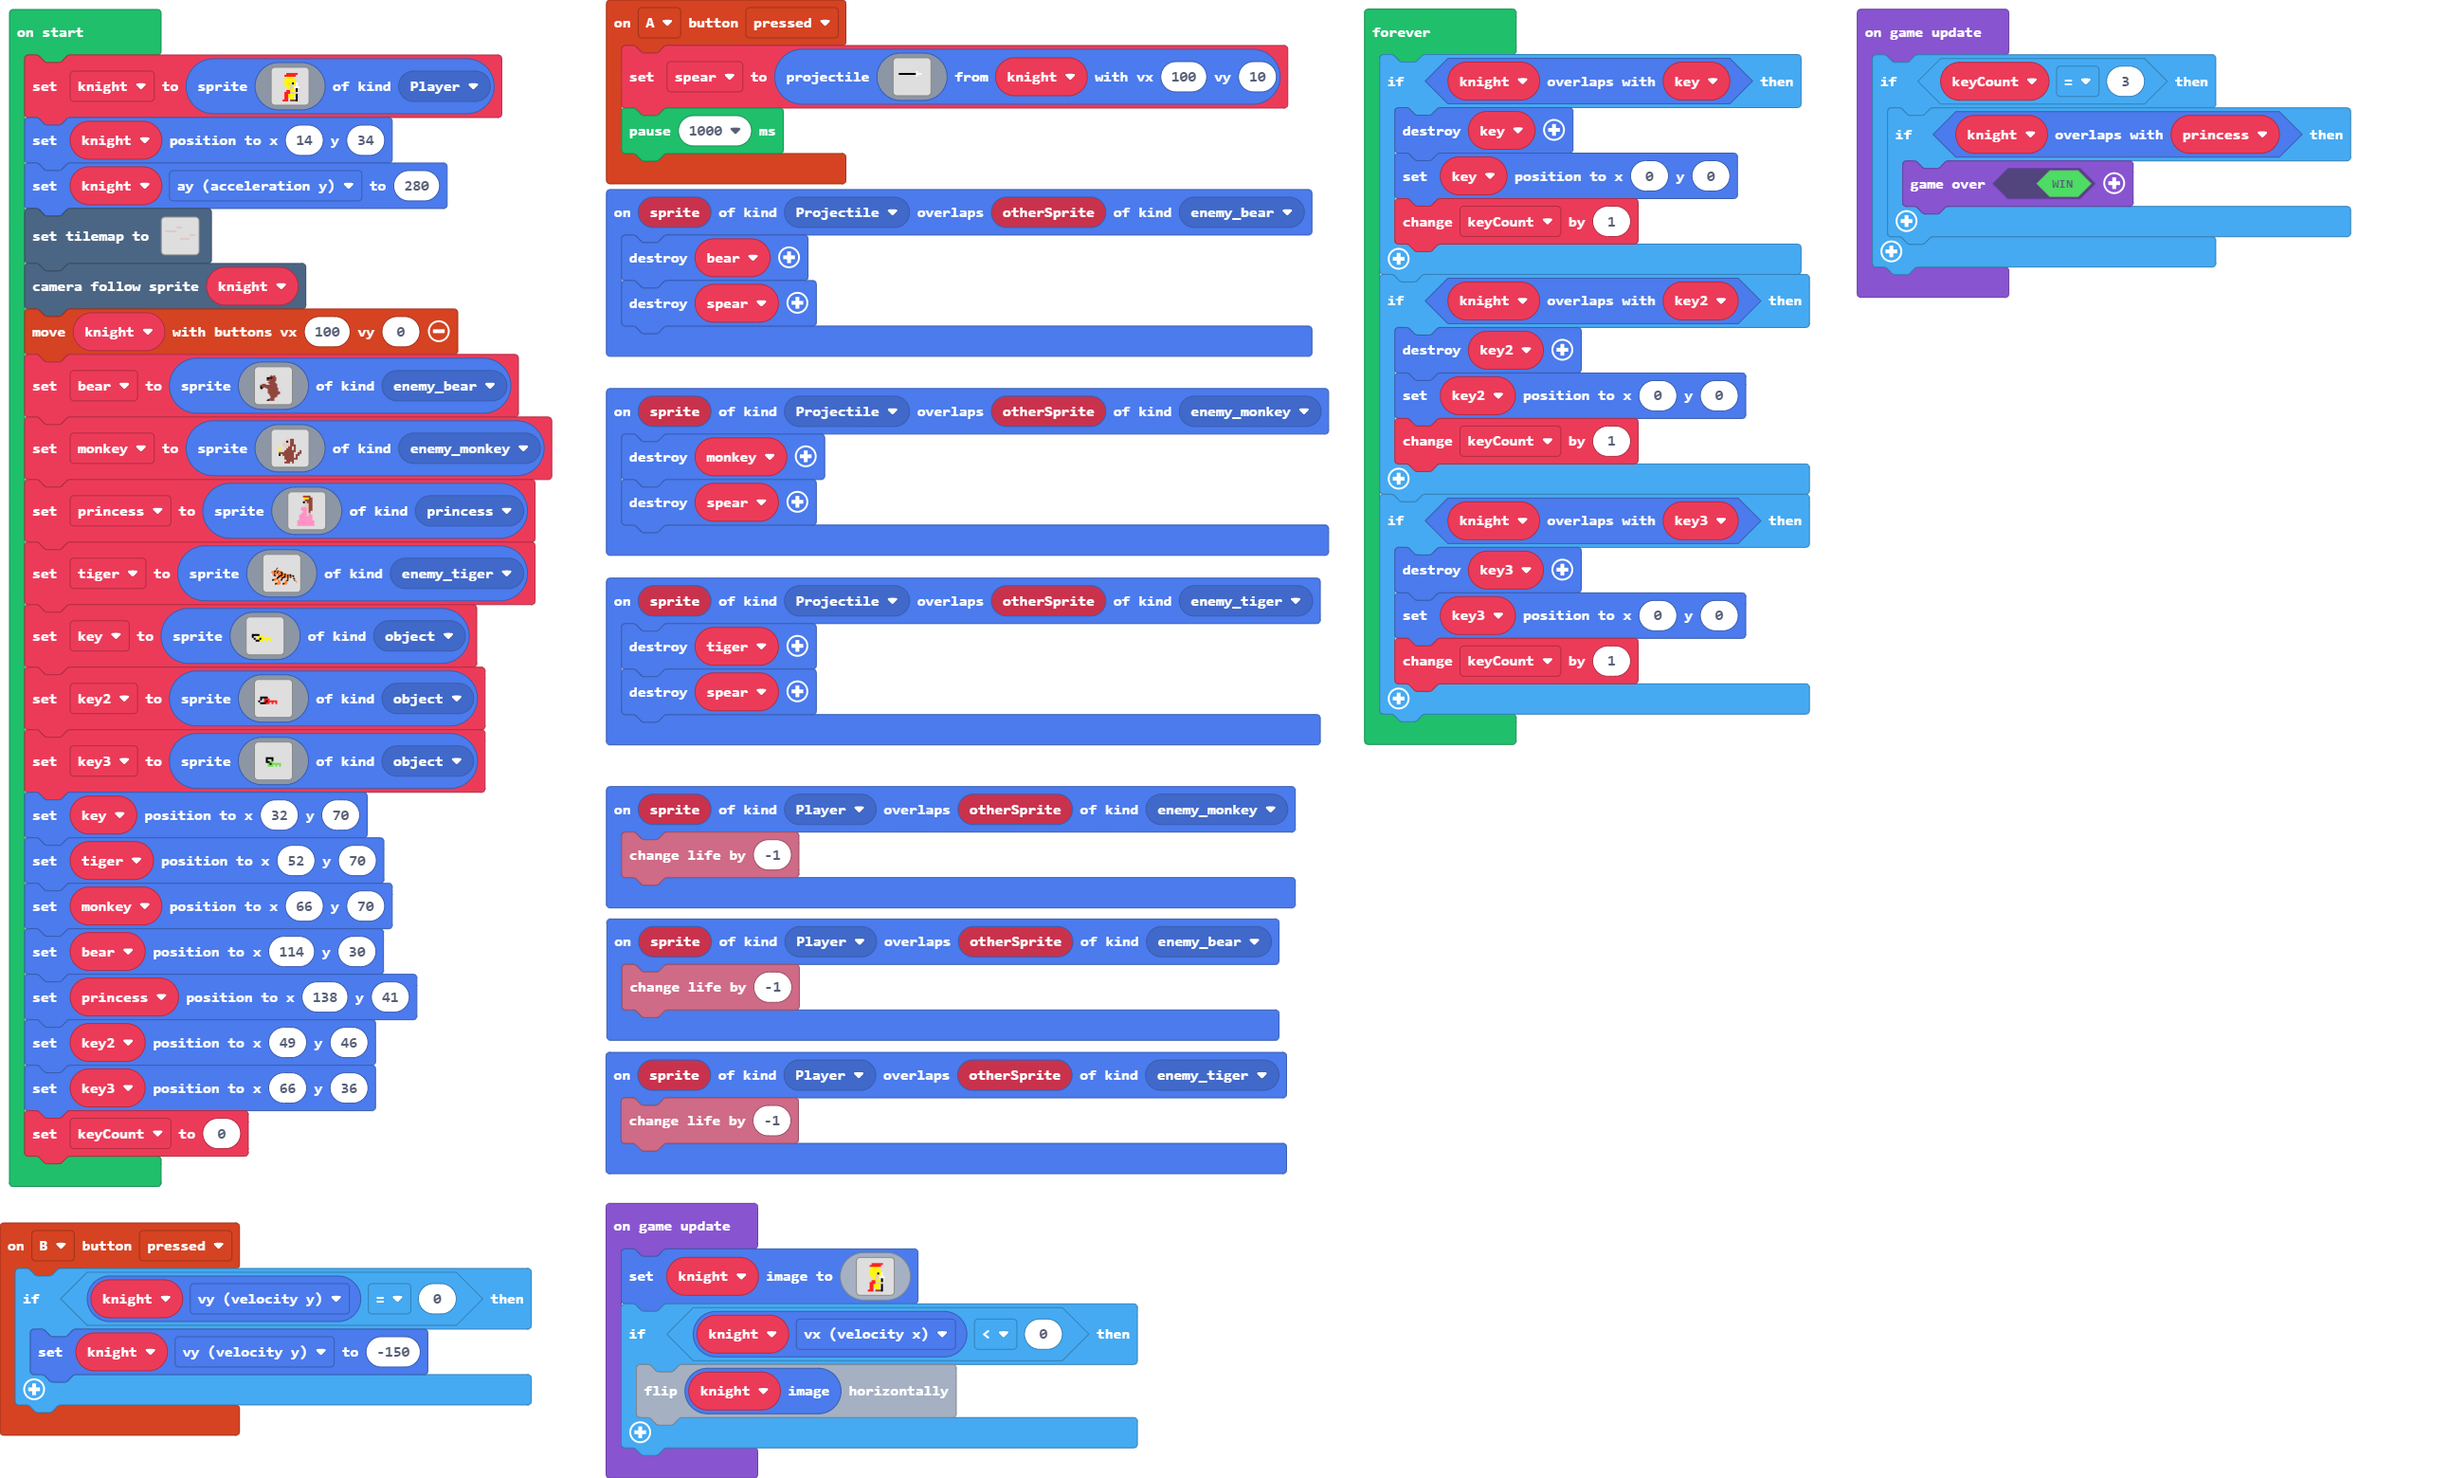
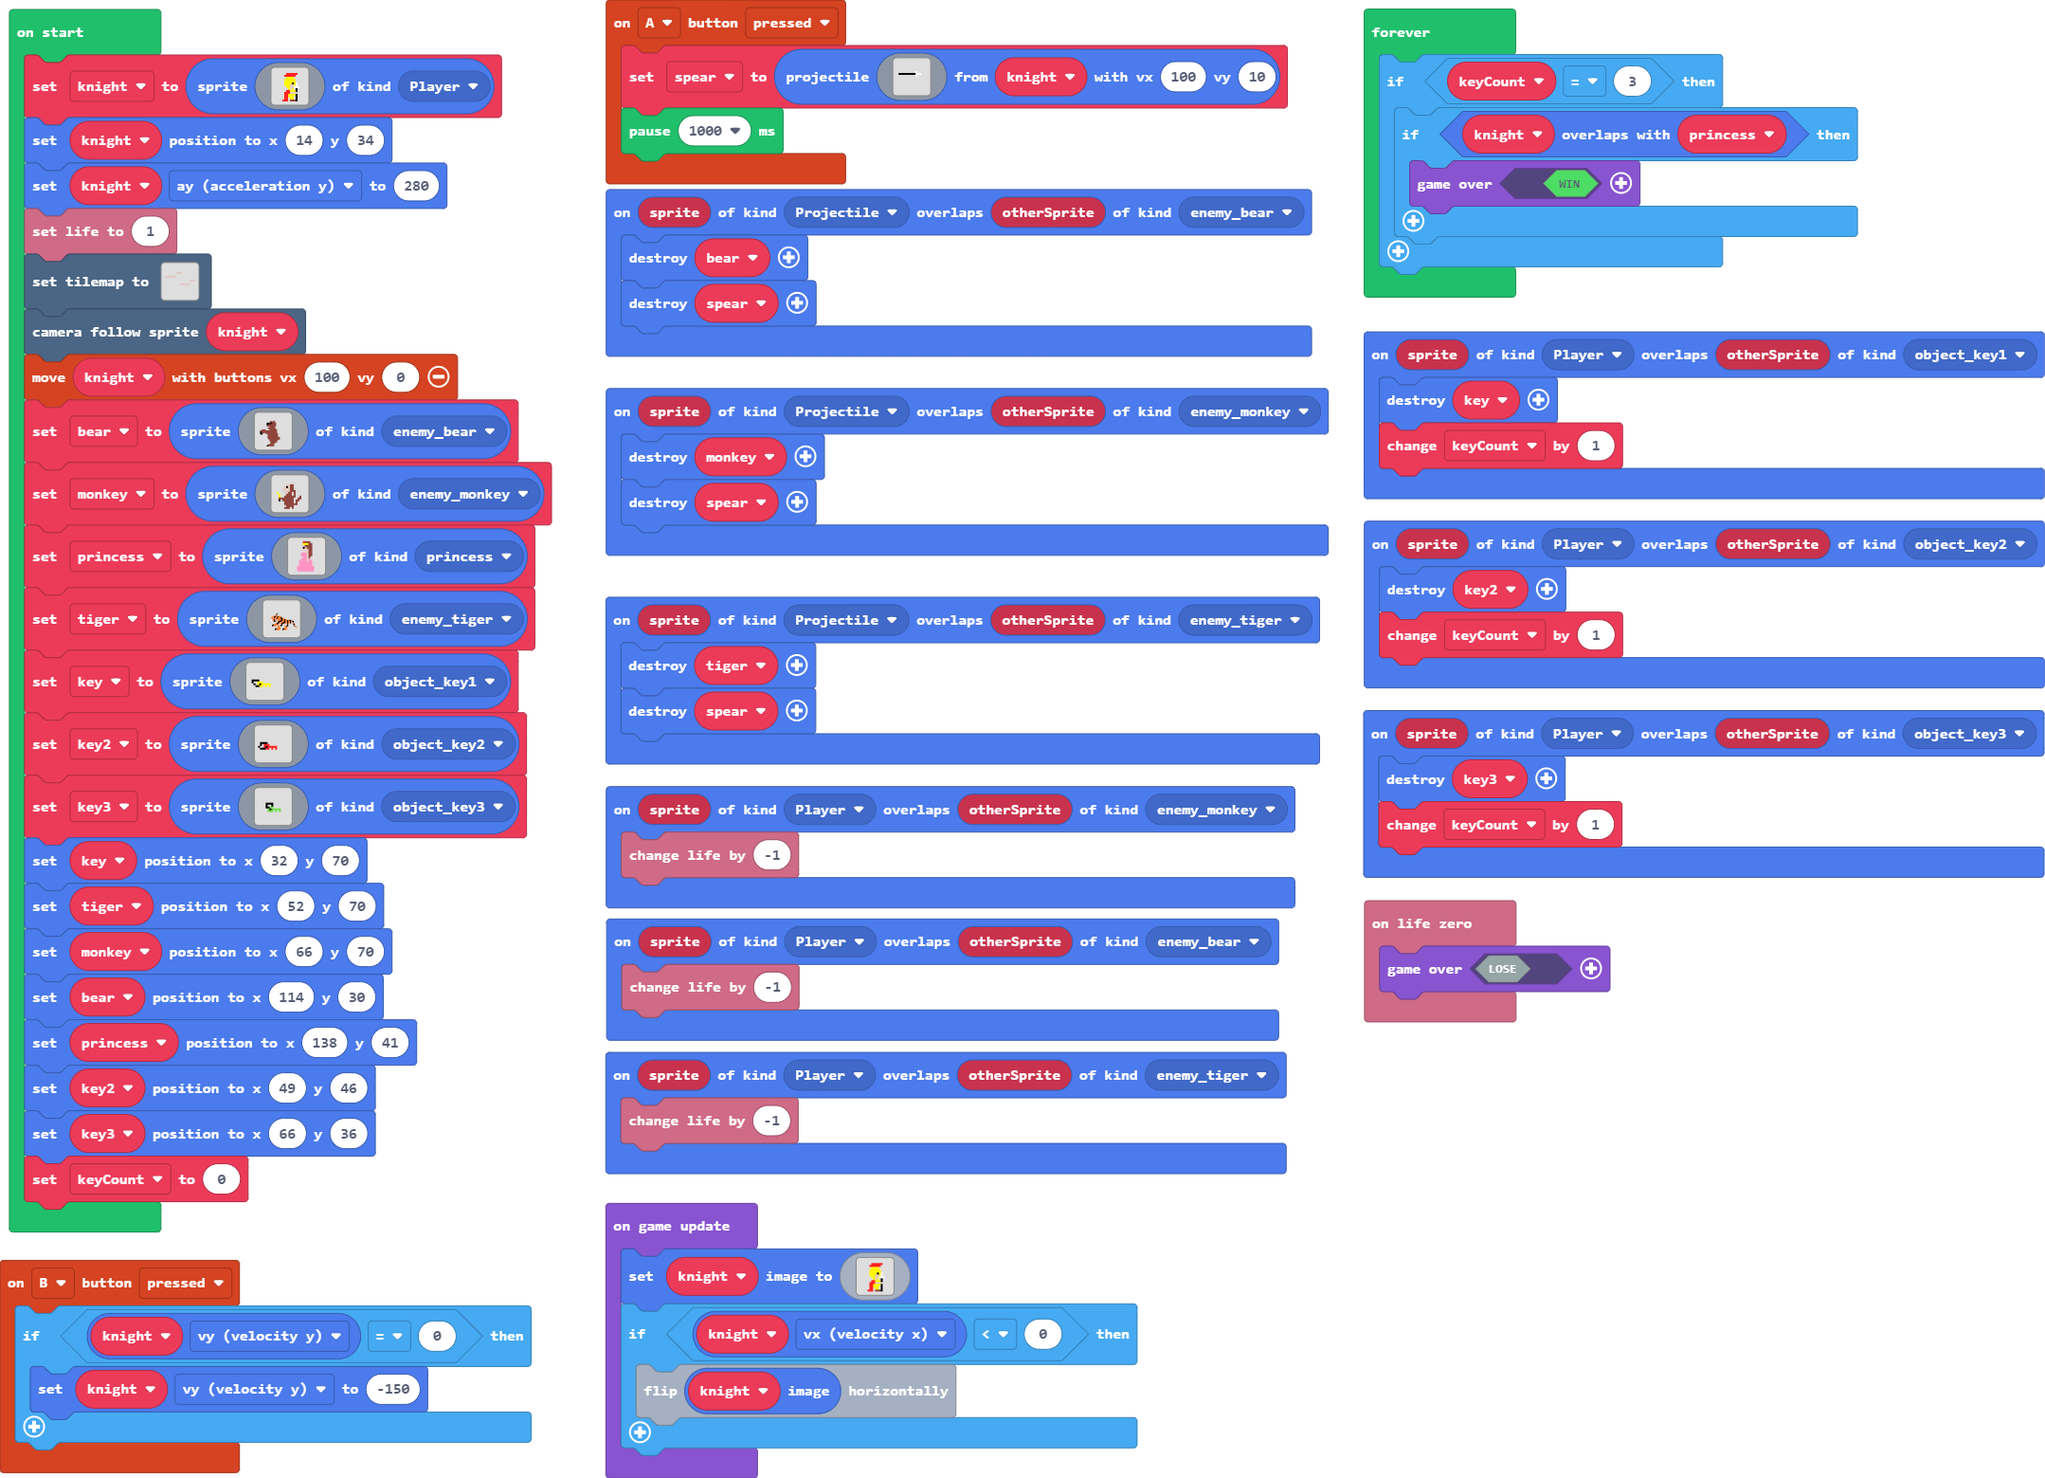
Update main.blocks, main.ts

diff --git a/main.ts b/main.ts
@@ -5,6 +5,9 @@ namespace SpriteKind {
     export const objec = SpriteKind.create()
     export const object = SpriteKind.create()
     export const enemy_tiger = SpriteKind.create()
+    export const object_key1 = SpriteKind.create()
+    export const object_key2 = SpriteKind.create()
+    export const object_key3 = SpriteKind.create()
 }
 sprites.onOverlap(SpriteKind.Player, SpriteKind.enemy_bear, function (sprite, otherSprite) {
     info.changeLifeBy(-1)
@@ -13,6 +16,10 @@ controller.B.onEvent(ControllerButtonEvent.Pressed, function () {
     if (knight.vy == 0) {
         knight.vy = -150
     }
+})
+sprites.onOverlap(SpriteKind.Player, SpriteKind.object_key1, function (sprite, otherSprite) {
+    key.destroy()
+    keyCount += 1
 })
 sprites.onOverlap(SpriteKind.Player, SpriteKind.enemy_monkey, function (sprite, otherSprite) {
     info.changeLifeBy(-1)
@@ -46,14 +53,28 @@ sprites.onOverlap(SpriteKind.Projectile, SpriteKind.enemy_tiger, function (sprit
     tiger.destroy()
     spear.destroy()
 })
+sprites.onOverlap(SpriteKind.Player, SpriteKind.object_key2, function (sprite, otherSprite) {
+    key2.destroy()
+    keyCount += 1
+})
 sprites.onOverlap(SpriteKind.Player, SpriteKind.enemy_tiger, function (sprite, otherSprite) {
     info.changeLifeBy(-1)
+})
+info.onLifeZero(function () {
+    game.over(false)
 })
 sprites.onOverlap(SpriteKind.Projectile, SpriteKind.enemy_monkey, function (sprite, otherSprite) {
     monkey.destroy()
     spear.destroy()
 })
+sprites.onOverlap(SpriteKind.Player, SpriteKind.object_key3, function (sprite, otherSprite) {
+    key3.destroy()
+    keyCount += 1
+})
 let spear: Sprite = null
+let key3: Sprite = null
+let key2: Sprite = null
+let key: Sprite = null
 let tiger: Sprite = null
 let monkey: Sprite = null
 let bear: Sprite = null
@@ -78,6 +99,7 @@ knight = sprites.create(img`
     `, SpriteKind.Player)
 knight.setPosition(14, 34)
 knight.ay = 280
+info.setLife(1)
 tiles.setTilemap(tiles.createTilemap(hex`1000100000000000000000000000000000000000000000000000000000000000000000000000000000000000000000000000000000000000000001010100000000000000000000000000000000000000000000000101010101010000000000000000000000000000000000000000000000000000000000000000000000000000000101010000000000000000000000000000000000000000000000000101010101000000000000000000000000000000000000000000000000000000000000000000000000000000000000000000000000000000000000000000000000000000000000000000000000000000000000000000000000000000000000000000000000000000`, img`
     . . . . . . . . . . . . . . . . 
     . . . . . . . . . . . . . . . . 
@@ -202,7 +224,7 @@ tiger = sprites.create(img`
     ................................
     ................................
     `, SpriteKind.enemy_tiger)
-let key = sprites.create(img`
+key = sprites.create(img`
     . . . . . . . . . . . . . . . . 
     . . . . . . . . . . . . . . . . 
     . . . . . . . . . . . . . . . . 
@@ -219,8 +241,8 @@ let key = sprites.create(img`
     . . . . . . . . . . . . . . . . 
     . . . . . . . . . . . . . . . . 
     . . . . . . . . . . . . . . . . 
-    `, SpriteKind.object)
-let key2 = sprites.create(img`
+    `, SpriteKind.object_key1)
+key2 = sprites.create(img`
     . . . . . . . . . . . . . . . . 
     . . . . . . . . . . . . . . . . 
     . . . . . . . . . . . . . . . . 
@@ -237,8 +259,8 @@ let key2 = sprites.create(img`
     . . . . . . . . . . . . . . . . 
     . . . . . . . . . . . . . . . . 
     . . . . . . . . . . . . . . . . 
-    `, SpriteKind.object)
-let key3 = sprites.create(img`
+    `, SpriteKind.object_key2)
+key3 = sprites.create(img`
     . . . . . . . . . . . . . . . . 
     . . . . . . . . . . . . . . . . 
     . . . . . . . . . . . . . . . . 
@@ -255,7 +277,7 @@ let key3 = sprites.create(img`
     . . . . . . . . . . . . . . . . 
     . . . . . . . . . . . . . . . . 
     . . . . . . . . . . . . . . . . 
-    `, SpriteKind.object)
+    `, SpriteKind.object_key3)
 key.setPosition(32, 70)
 tiger.setPosition(52, 70)
 monkey.setPosition(66, 70)
@@ -264,13 +286,6 @@ princess.setPosition(138, 41)
 key2.setPosition(49, 46)
 key3.setPosition(66, 36)
 let keyCount = 0
-game.onUpdate(function () {
-    if (keyCount == 3) {
-        if (knight.overlapsWith(princess)) {
-            game.over(true)
-        }
-    }
-})
 game.onUpdate(function () {
     knight.setImage(img`
         . . . . . . . . . . . . . . . . 
@@ -295,19 +310,9 @@ game.onUpdate(function () {
     }
 })
 forever(function () {
-    if (knight.overlapsWith(key)) {
-        key.destroy()
-        key.setPosition(0, 0)
-        keyCount += 1
-    }
-    if (knight.overlapsWith(key2)) {
-        key2.destroy()
-        key2.setPosition(0, 0)
-        keyCount += 1
-    }
-    if (knight.overlapsWith(key3)) {
-        key3.destroy()
-        key3.setPosition(0, 0)
-        keyCount += 1
+    if (keyCount == 3) {
+        if (knight.overlapsWith(princess)) {
+            game.over(true)
+        }
     }
 })
